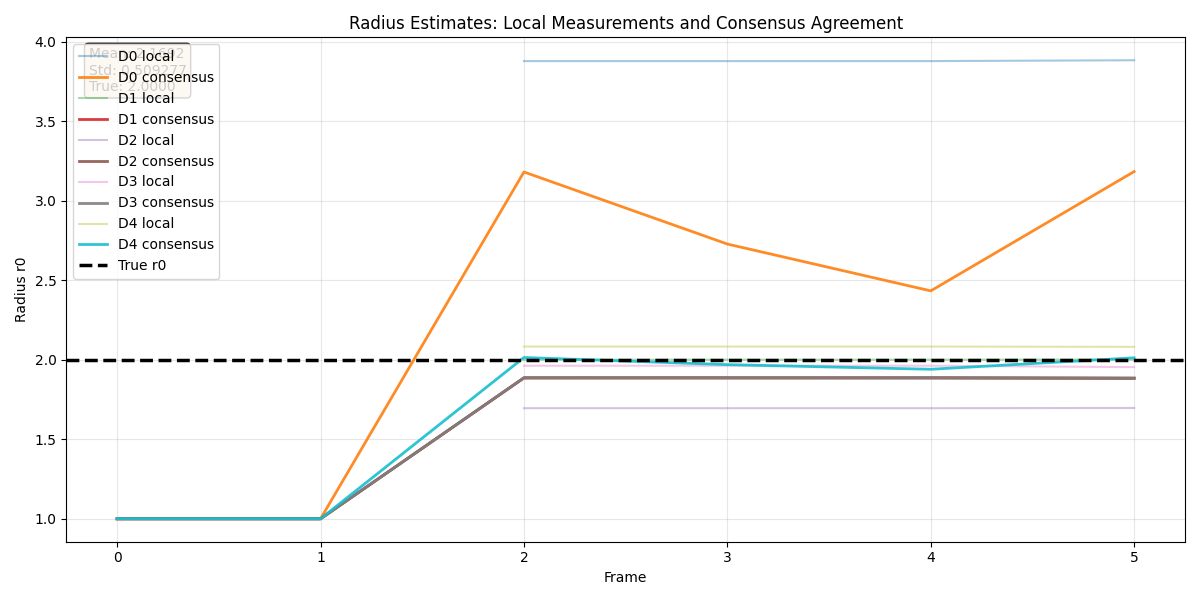
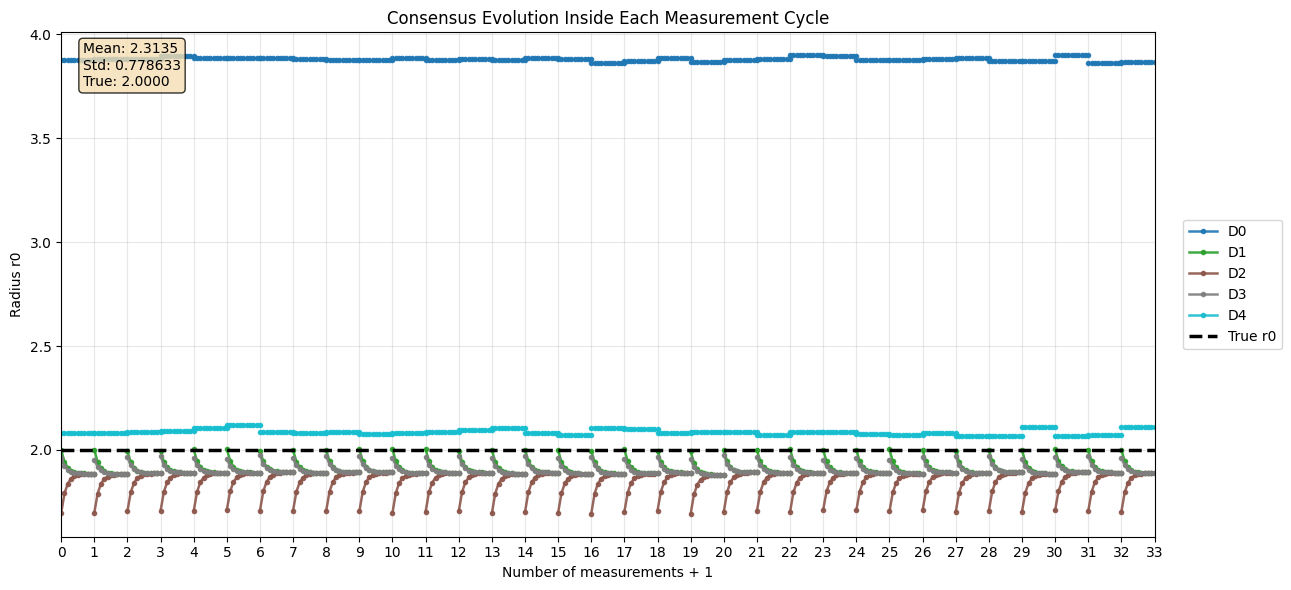
full patch

diff --git a/simulation_engine.py b/simulation_engine.py
@@ -15,7 +15,7 @@ class SimulationEngine:
         sigma_cam=0.1,
         measure_every=3,
         consensus_iters=10,
-        communication_radius_cells=201,
+        communication_radius_cells=205,
         fully_connected=False,
     ):
         self.sim_map = sim_map
@@ -25,7 +25,6 @@ class SimulationEngine:
         self.sigma_cam = sigma_cam
         self.drones = []
         self.frame = 0
-
         # Center is known in this experiment.
         self.true_x0 = oil_spill.x0
         self.true_y0 = oil_spill.y0
@@ -52,6 +51,8 @@ class SimulationEngine:
 
         # History for plotting local measurements and consensus convergence.
         self.estimates_history = {}
+        self.measurement_consensus_history = []
+        self._current_measure_trace = None
 
     def add_drone(self, drone_id, x, y):
         drone = Drone(
@@ -75,6 +76,8 @@ class SimulationEngine:
             "gradient_peak": [],
             "oil_fraction": [],
             "r0_local": [],
+            "r0_measure_start": [],
+            "r0_measure_end": [],
             "r0_consensus": [],
             "r0_post": [],
         }
@@ -110,6 +113,7 @@ class SimulationEngine:
                 "gradient_magnitude": np.nan,
                 "gradient_peak": np.nan,
                 "oil_fraction": np.nan,
+                "r0_local_raw": np.nan,
                 "r0_local": np.nan,
             }
 
@@ -150,6 +154,7 @@ class SimulationEngine:
                 "gradient_magnitude": np.nan,
                 "gradient_peak": np.nan,
                 "oil_fraction": np.nan,
+                "r0_local_raw": np.nan,
                 "r0_local": np.nan,
             }
 
@@ -171,7 +176,8 @@ class SimulationEngine:
         edge_y = float(np.mean(world_y))
         center_x = float(drone.estimate_x0)
         center_y = float(drone.estimate_y0)
-        r0_local = float(np.mean(np.hypot(world_x - center_x, world_y - center_y)))
+        raw_r0_local = float(np.mean(np.hypot(world_x - center_x, world_y - center_y)))
+        r0_local = raw_r0_local
 
         drone.edge_detected = True
         drone.last_edge_point = nearest_edge_point
@@ -186,6 +192,7 @@ class SimulationEngine:
             "gradient_magnitude": float(np.count_nonzero(edges)),
             "gradient_peak": float(np.count_nonzero(edges)),
             "oil_fraction": float(np.mean(camera_view >= self.oil_cell_threshold)),
+            "r0_local_raw": raw_r0_local,
             "r0_local": r0_local,
         }
 
@@ -198,17 +205,26 @@ class SimulationEngine:
             and getattr(d, "last_oil_fraction", 0.0) >= self.consensus_oil_fraction_threshold
         ]
 
-    def _run_consensus(self):
+    def _run_consensus(self, iteration_index=None, iteration_total=None):
         """
         One distributed averaging consensus step over drones near the edge.
         A single simulation frame corresponds to a single consensus iteration.
         """
         valid_drones = self._select_consensus_drones()
         if not valid_drones:
+            if iteration_index is not None and iteration_total is not None:
+                print(
+                    f"  Consensus iter {iteration_index}/{iteration_total}: "
+                    f"no eligible drones"
+                )
+            if self._current_measure_trace is not None:
+                for drone in self.drones:
+                    self._current_measure_trace[drone.drone_id].append(float(drone.estimate_r0))
             return 0, 0.0
 
         current = {d.drone_id: float(d.estimate_r0) for d in valid_drones}
         new_values = {}
+        neighbor_info = {}
         max_diff = 0.0
 
         for drone in valid_drones:
@@ -221,9 +237,34 @@ class SimulationEngine:
             new_value = current[drone.drone_id] + self.consensus_gain * (mean_estimate - current[drone.drone_id])
             new_values[drone.drone_id] = float(new_value)
             max_diff = max(max_diff, abs(new_value - current[drone.drone_id]))
+            neighbor_info[drone.drone_id] = {
+                "neighbors": [n.drone_id for n in neighbors],
+                "mean": mean_estimate,
+                "old": current[drone.drone_id],
+                "new": float(new_value),
+            }
 
         for drone in valid_drones:
             drone.estimate_r0 = new_values[drone.drone_id]
+
+        if iteration_index is not None and iteration_total is not None:
+            ordered_ids = [d.drone_id for d in valid_drones]
+            details = []
+            for drone_id in ordered_ids:
+                info = neighbor_info[drone_id]
+                neighbor_str = ",".join(info["neighbors"])
+                details.append(
+                    f"{drone_id}:{info['old']:.6f}->{info['new']:.6f} "
+                    f"(mean={info['mean']:.6f}, n=[{neighbor_str}])"
+                )
+            print(
+                f"  Consensus iter {iteration_index}/{iteration_total} | "
+                f"max_diff={max_diff:.2e} | " + " ; ".join(details)
+            )
+
+        if self._current_measure_trace is not None:
+            for drone in self.drones:
+                self._current_measure_trace[drone.drone_id].append(float(drone.estimate_r0))
 
         # The final estimate after the frame is the agreed consensus state for
         # this single iteration. It will be used as the starting point on the
@@ -288,13 +329,14 @@ class SimulationEngine:
                 history["gradient_peak"].append(local_estimate["gradient_peak"])
                 history["oil_fraction"].append(local_estimate["oil_fraction"])
                 history["r0_local"].append(local_estimate["r0_local"])
+                history["r0_measure_start"].append(float(drone.estimate_r0))
 
                 if local_estimate["edge_detected"]:
                     print(
                         f"{drone.drone_id}: edge detected, "
                         f"grad={local_estimate['gradient_magnitude']:.6f}, "
                         f"oil={local_estimate['oil_fraction']:.3f}, "
-                        f"local r0 = {local_estimate['r0_local']:.6f}"
+                        f"raw r0 = {local_estimate['r0_local_raw']:.6f}"
                     )
                 else:
                     print(
@@ -314,6 +356,13 @@ class SimulationEngine:
                 history["r0_local"].append(history["r0_local"][-1] if history["r0_local"] else np.nan)
                 print(f"{drone.drone_id}: sensing skipped, carrying previous measurement")
 
+        if measurement_frame:
+            self._current_measure_trace = {
+                drone.drone_id: [float(drone.estimate_r0)] for drone in self.drones
+            }
+            start_snapshot = ", ".join(f"{d.drone_id}={d.estimate_r0:.6f}" for d in self.drones)
+            print(f"Measurement start radii: {start_snapshot}")
+
         # 2. Consensus over the local estimates.
         consensus_drones = self._select_consensus_drones()
         consensus_ids = ", ".join(d.drone_id for d in consensus_drones) if consensus_drones else "none"
@@ -322,8 +371,8 @@ class SimulationEngine:
             f"{consensus_ids}"
         )
         max_diff = 0.0
-        for _ in range(self.consensus_iters):
-            _, diff = self._run_consensus()
+        for iter_idx in range(self.consensus_iters):
+            _, diff = self._run_consensus(iteration_index=iter_idx + 1, iteration_total=self.consensus_iters)
             max_diff = max(max_diff, diff)
 
         # Record the state after the active consensus step.
@@ -343,8 +392,19 @@ class SimulationEngine:
         print(f"AFTER CONSENSUS ({self.consensus_iters} iters/frame, max_diff={max_diff:.2e}):")
         for drone in self.drones:
             self.estimates_history[drone.drone_id]["r0_post"].append(drone.estimate_r0)
+            if measurement_frame:
+                self.estimates_history[drone.drone_id]["r0_measure_end"].append(float(drone.estimate_r0))
             print(f"{drone.drone_id}: agreed r0 = {drone.estimate_r0:.6f}")
 
         print("FRAME RADIUS ESTIMATES:")
         for drone in self.drones:
             print(f"{drone.drone_id}: r0 = {drone.estimate_r0:.6f}")
+
+        if measurement_frame:
+            if self._current_measure_trace is not None:
+                self.measurement_consensus_history.append(
+                    {drone_id: list(values) for drone_id, values in self._current_measure_trace.items()}
+                )
+                self._current_measure_trace = None
+            end_snapshot = ", ".join(f"{d.drone_id}={d.estimate_r0:.6f}" for d in self.drones)
+            print(f"Measurement end radii: {end_snapshot}")

diff --git a/main.py b/main.py
@@ -109,52 +109,71 @@ def run_multi_drone_simulation(
     import matplotlib.pyplot as plt
     plt.savefig('final_simulation_state.png')
     
-    # Plot per-frame local and post-consensus estimates.
-    frames = list(range(len(engine.estimates_history[next(iter(engine.estimates_history))]['r0_post'])))
-    fig, ax = plt.subplots(figsize=(12, 6))
+    # Plot convergence by measurement index, including every consensus iteration.
+    measurement_count = len(engine.measurement_consensus_history)
+    fig, ax = plt.subplots(figsize=(13, 6))
+    color_cycle = plt.cm.tab10(np.linspace(0, 1, max(1, len(engine.drones))))
 
-    for drone_id, history in engine.estimates_history.items():
-        ax.plot(frames, history['r0_local'], label=f'{drone_id} local', linewidth=1.5, alpha=0.4)
-        ax.plot(frames, history['r0_post'], label=f'{drone_id} consensus', linewidth=2.0, alpha=0.9)
+    initial_r0_post = [engine.estimates_history[f"D{i}"]["r0_post"][0] for i in range(len(engine.drones))]
+    final_r0_post = [engine.estimates_history[f"D{i}"]["r0_measure_end"][-1] for i in range(len(engine.drones))]
+    all_end_values = []
 
-    # Add true radius line
-    ax.axhline(y=spill.r0, color='black', linestyle='--', linewidth=2.5, label='True r0')
-    
-    # Calculate final statistics
-    final_r0_post = [engine.estimates_history[f'D{i}']['r0_post'][-1] for i in range(len(engine.drones))]
-    initial_r0_local = [engine.estimates_history[f'D{i}']['r0_local'][0] for i in range(len(engine.drones))]
-    initial_r0_post = [engine.estimates_history[f'D{i}']['r0_post'][0] for i in range(len(engine.drones))]
+    for measure_idx, cycle_trace in enumerate(engine.measurement_consensus_history, start=1):
+        x_values = np.linspace(measure_idx - 1.0, measure_idx, len(next(iter(cycle_trace.values()))))
+        for idx, drone in enumerate(engine.drones):
+            drone_id = drone.drone_id
+            y_values = np.asarray(cycle_trace[drone_id], dtype=float)
+            all_end_values.append(y_values[-1])
+            ax.plot(
+                x_values,
+                y_values,
+                color=color_cycle[idx % len(color_cycle)],
+                linewidth=1.8,
+                marker="o",
+                markersize=3,
+                alpha=0.9,
+                label=f"{drone_id}" if measure_idx == 1 else None,
+            )
+
+    ax.axhline(y=spill.r0, color="black", linestyle="--", linewidth=2.5, label="True r0")
+
     mean_r0 = np.mean(final_r0_post)
     std_r0 = np.std(final_r0_post)
-    
-    # Print to console
+
     print("\n=== FINAL CONSENSUS RESULTS ===")
     for i in range(len(engine.drones)):
         print(
-            f"D{i}: initial r0_local={initial_r0_local[i]:.6f}, "
-            f"initial r0_post={initial_r0_post[i]:.6f}, "
+            f"D{i}: initial r0_post={initial_r0_post[i]:.6f}, "
             f"final r0_post={final_r0_post[i]:.6f}"
         )
     print(f"Mean r0: {mean_r0:.6f}")
     print(f"Std Dev: {std_r0:.6f}")
     print(f"True r0: {spill.r0:.6f}")
     print(f"Error from true: {abs(mean_r0 - spill.r0):.6f}")
-    
-    # Add text to plot
-    textstr = f'Mean: {mean_r0:.4f}\nStd: {std_r0:.6f}\nTrue: {spill.r0:.4f}'
-    ax.text(0.02, 0.98, textstr, transform=ax.transAxes, fontsize=10,
-            verticalalignment='top', bbox=dict(boxstyle='round', facecolor='wheat', alpha=0.8))
-    
-    ax.set_title('Radius Estimates: Local Measurements and Consensus Agreement')
-    ax.set_xlabel('Frame')
-    ax.set_ylabel('Radius r0')
-    ax.legend()
+
+    textstr = f"Mean: {mean_r0:.4f}\nStd: {std_r0:.6f}\nTrue: {spill.r0:.4f}"
+    ax.text(
+        0.02,
+        0.98,
+        textstr,
+        transform=ax.transAxes,
+        fontsize=10,
+        verticalalignment="top",
+        bbox=dict(boxstyle="round", facecolor="wheat", alpha=0.8),
+    )
+
+    ax.set_title("Consensus Evolution Inside Each Measurement Cycle")
+    ax.set_xlabel("Number of measurements + 1")
+    ax.set_ylabel("Radius r0")
+    ax.set_xlim(0, measurement_count if measurement_count else 1)
+    ax.set_xticks(np.arange(0, measurement_count + 1, 1))
     ax.grid(True, alpha=0.3)
+    ax.legend(loc="center left", bbox_to_anchor=(1.02, 0.5), frameon=True)
 
     plt.tight_layout()
-    plt.savefig('consensus_convergence.png')
+    plt.savefig("consensus_convergence.png", bbox_inches="tight")
     print("Consensus convergence plot saved to 'consensus_convergence.png'")
-    
+
     if visualize:
         print("Closing the window to exit.")
         plt.show()
@@ -172,7 +191,7 @@ if __name__ == "__main__":
     parser.add_argument(
         "--communication-radius-cells",
         type=int,
-        default=201,
+        default=205,
         help="Communication radius in grid cells when range-based communication is enabled",
     )
     args = parser.parse_args()
